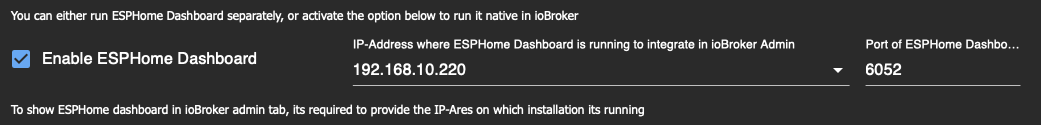
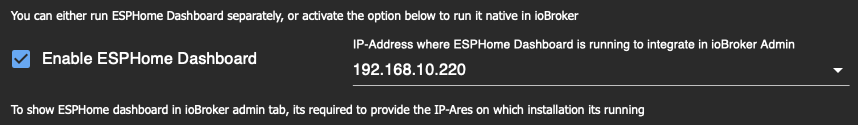
move port to advanced panel, https support - fixes: #159

diff --git a/README.md b/README.md
@@ -45,8 +45,27 @@ In any case, it is possible to integrate the dashboard into ioBroker Admin inter
 
 ![Logo](admin/img/ESPhomeDashboardIP.png)
 
-> [!IMPORTANT]
-> is currently not possible to show the ESPHome DashBoard integrated in ioBroker when https is enabled, see [#159](https://github.com/DrozmotiX/ioBroker.esphome/issues/159)
+### Using HTTPS
+
+One reason to use HTTPS is to be able to flash directly to devices plugged into you pc, because esphome will not allow this with http (probably browser limitation with WebSerial).
+
+![flashFromThisComputer.png](admin/img/flashFromThisComputer.png)
+
+Using the integrated dashboard when the iobroker is using https currently requires some more steps:
+
+1. install - if you don't have it already - web adapter and configure https. see web documentation for further information: [ioBroker.web](https://github.com/ioBroker/ioBroker.web)
+2. install [proxy](https://github.com/ioBroker/ioBroker.proxy) adapter
+3. configure the path in the proxy adapter settings:
+   1. context: `esphome/`
+   2. url: `http://localhost:6052`
+![proxy.png](admin/img/proxy.png)
+4. configure the full dashboard url in the advanced section of the esphome adapter settings - esphome dashboard:
+   1. like: `https://<iobrokerIP>:<webAdapterPort>/proxy.0/esphome/`
+   2. where `<iobrokerIP>` is the ip of the host where you iobroker is running (same as above)
+   3. and `<webAdapterPort>` is the port of the web adapter (default is 8082)
+   4. it should look something like this:
+   ![ESPHomeDashboardUrl.png](admin/img/ESPHomeDashboardUrl.png)
+   5. if you run the dashboard on an external host, you can also use the url to an external dashboard instance here
 
 ## How to use this adapter
 
